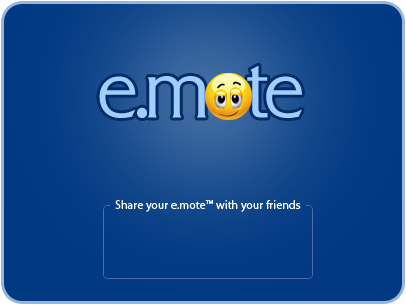
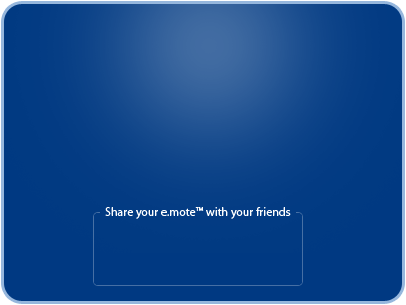
Done http://www.prestonkincaid.com/projects/public/index.php/projects/110/tickets/151 for desktop version

diff --git a/js/widget.js b/js/widget.js
@@ -1342,6 +1342,47 @@ function createSurvey(){
 		user_data.save();
 		return false;
 	});
+	
+	var sendEl = $("#send-email");
+	if(sendEl){
+	    sendEl.submit(function() {
+		var email = $("#input-email-data").val();
+		if(!checkEmail(email)){
+		    var error_el = $("#contact-email-block .error-block");
+		    $("#contact-email-block .error-block .typo").text("EMAIL TYPO DETECTED:");
+		    if( error_el.hasClass('non-visible')){
+			error_el.removeClass('non-visible');
+		    }
+		}else{
+		$.ajax({
+			type: 'POST',
+			url: urlPath,
+			
+			data: {
+				action: 'setemail',
+				email: email,
+				out: 'json'
+			},
+			
+			dataType : "json",
+			
+			success: function (data, textStatus) {
+				$("#contact-email-block").hide();
+				$("#thanks-message").show();
+			},
+			
+			error: function (data, textStatus) {
+			    $("#contact-email-block .error-block .typo").text("SERVER ERROR:");
+			    var error_el = $("#contact-email-block .error-block");
+			    if( error_el.hasClass('non-visible')){
+				error_el.removeClass('non-visible');
+			    }
+			}
+		});
+		}
+		return false;
+	    });
+	}
 }
 
 var SurveyRequest = function(options){
@@ -1427,6 +1468,11 @@ function createCodeRequest(){
 	});
 }
 
+function checkEmail(value){
+    return /^((([a-z]|\d|[!#\$%&'\*\+\-\/=\?\^_`{\|}~]|[\u00A0-\uD7FF\uF900-\uFDCF\uFDF0-\uFFEF])+(\.([a-z]|\d|[!#\$%&'\*\+\-\/=\?\^_`{\|}~]|[\u00A0-\uD7FF\uF900-\uFDCF\uFDF0-\uFFEF])+)*)|((\x22)((((\x20|\x09)*(\x0d\x0a))?(\x20|\x09)+)?(([\x01-\x08\x0b\x0c\x0e-\x1f\x7f]|\x21|[\x23-\x5b]|[\x5d-\x7e]|[\u00A0-\uD7FF\uF900-\uFDCF\uFDF0-\uFFEF])|(\\([\x01-\x09\x0b\x0c\x0d-\x7f]|[\u00A0-\uD7FF\uF900-\uFDCF\uFDF0-\uFFEF]))))*(((\x20|\x09)*(\x0d\x0a))?(\x20|\x09)+)?(\x22)))@((([a-z]|\d|[\u00A0-\uD7FF\uF900-\uFDCF\uFDF0-\uFFEF])|(([a-z]|\d|[\u00A0-\uD7FF\uF900-\uFDCF\uFDF0-\uFFEF])([a-z]|\d|-|\.|_|~|[\u00A0-\uD7FF\uF900-\uFDCF\uFDF0-\uFFEF])*([a-z]|\d|[\u00A0-\uD7FF\uF900-\uFDCF\uFDF0-\uFFEF])))\.)+(([a-z]|[\u00A0-\uD7FF\uF900-\uFDCF\uFDF0-\uFFEF])|(([a-z]|[\u00A0-\uD7FF\uF900-\uFDCF\uFDF0-\uFFEF])([a-z]|\d|-|\.|_|~|[\u00A0-\uD7FF\uF900-\uFDCF\uFDF0-\uFFEF])*([a-z]|[\u00A0-\uD7FF\uF900-\uFDCF\uFDF0-\uFFEF])))\.?$/i.test(value);
+};
+
+
 $(document).ready(function(){
 //	$("#main-content").show();
 	
@@ -1457,5 +1503,3 @@ $(document).ready(function(){
 
 });
 
-//http://www.netzgesta.de/glossy/
-//http://jreject.turnwheel.com/

diff --git a/js/survey.js b/js/survey.js
@@ -1312,6 +1312,47 @@ function createSurvey(){
 	});
 	
 	$('title').text("How do you feel about " + $('#short-stimulus').text() + "?");
+	
+	var sendEl = $("#send-email");
+	if(sendEl){
+	    sendEl.submit(function() {
+		var email = $("#input-email-data").val();
+		if(!checkEmail(email)){
+		    var error_el = $("#contact-email-block .error-block");
+		    $("#contact-email-block .error-block .typo").text("EMAIL TYPO DETECTED:");
+		    if( error_el.hasClass('non-visible')){
+			error_el.removeClass('non-visible');
+		    }
+		}else{
+		$.ajax({
+			type: 'POST',
+			url: urlPath,
+			
+			data: {
+				action: 'setemail',
+				email: email,
+				out: 'json'
+			},
+			
+			dataType : "json",
+			
+			success: function (data, textStatus) {
+				$("#contact-email-block").hide();
+				$("#thanks-message").show();
+			},
+			
+			error: function (data, textStatus) {
+			    $("#contact-email-block .error-block .typo").text("SERVER ERROR:");
+			    var error_el = $("#contact-email-block .error-block");
+			    if( error_el.hasClass('non-visible')){
+				error_el.removeClass('non-visible');
+			    }
+			}
+		});
+		}
+		return false;
+	    });
+	}
 }
 
 var SurveyRequest = function(options){
@@ -1397,6 +1438,9 @@ function createCodeRequest(){
 	});
 }
 
+function checkEmail(value){
+    return /^((([a-z]|\d|[!#\$%&'\*\+\-\/=\?\^_`{\|}~]|[\u00A0-\uD7FF\uF900-\uFDCF\uFDF0-\uFFEF])+(\.([a-z]|\d|[!#\$%&'\*\+\-\/=\?\^_`{\|}~]|[\u00A0-\uD7FF\uF900-\uFDCF\uFDF0-\uFFEF])+)*)|((\x22)((((\x20|\x09)*(\x0d\x0a))?(\x20|\x09)+)?(([\x01-\x08\x0b\x0c\x0e-\x1f\x7f]|\x21|[\x23-\x5b]|[\x5d-\x7e]|[\u00A0-\uD7FF\uF900-\uFDCF\uFDF0-\uFFEF])|(\\([\x01-\x09\x0b\x0c\x0d-\x7f]|[\u00A0-\uD7FF\uF900-\uFDCF\uFDF0-\uFFEF]))))*(((\x20|\x09)*(\x0d\x0a))?(\x20|\x09)+)?(\x22)))@((([a-z]|\d|[\u00A0-\uD7FF\uF900-\uFDCF\uFDF0-\uFFEF])|(([a-z]|\d|[\u00A0-\uD7FF\uF900-\uFDCF\uFDF0-\uFFEF])([a-z]|\d|-|\.|_|~|[\u00A0-\uD7FF\uF900-\uFDCF\uFDF0-\uFFEF])*([a-z]|\d|[\u00A0-\uD7FF\uF900-\uFDCF\uFDF0-\uFFEF])))\.)+(([a-z]|[\u00A0-\uD7FF\uF900-\uFDCF\uFDF0-\uFFEF])|(([a-z]|[\u00A0-\uD7FF\uF900-\uFDCF\uFDF0-\uFFEF])([a-z]|\d|-|\.|_|~|[\u00A0-\uD7FF\uF900-\uFDCF\uFDF0-\uFFEF])*([a-z]|[\u00A0-\uD7FF\uF900-\uFDCF\uFDF0-\uFFEF])))\.?$/i.test(value);
+};
 
 $(document).ready(function(){
 	$("#main-content").show();

diff --git a/css/browser.css b/css/browser.css
@@ -720,13 +720,13 @@ body{
 .thanks-bg-win .share-block{
 	text-align: center;
 	position: absolute;
-	margin-left: 154px;
+	margin-left: 143px;
 	font-size: 10px;
-	bottom: 57px;
+	bottom: 48px;
 }
 
 .thanks-bg-win .share-block #facebook_url{
-	margin-right: 10px;
+	margin-right: 15px;
 }
 
 #instruction-header{
@@ -754,4 +754,66 @@ body{
 
 #short-stimulus{
 	display: none;
+}
+
+#contact-email-block{
+	padding-top: 25px;
+	margin-left: 20px;
+	margin-right: 20px;
+	text-align: center;
+}
+
+#contact-email-block .input-email{
+	float: left;
+	width: 220px;
+	height: 32px;
+	margin-left: 9px;
+}
+
+#contact-email-block .input-email input{
+	border: 1px solid #fff;
+	width: 210px;
+	height: 30px;
+	font-family: Verdana, Arial, Helvetica, sans-serif;
+}
+
+
+#contact-email-block .message{
+	font-size: 14px;
+	font-family: Verdana, Arial, Helvetica, sans-serif;
+	color: white;
+	margin-bottom: 30px;
+}
+
+#contact-email-block .error-block{
+	margin-bottom: 10px;
+}
+
+#contact-email-block .error-block .typo{
+	color: #ffee3f; 
+	font-size: 12px;
+}
+
+#contact-email-block .error-block .error-message{
+	color: white;
+	font-size: 12px;
+	font-family: Verdana, Arial, Helvetica, sans-serif;
+}
+
+#contact-email-block #survey-loader-img{
+	display: none;
+}
+
+#thanks-message{
+	color: white;
+	padding-top: 15px;
+	font-size: 16px;
+	font-family: Verdana, Arial, Helvetica, sans-serif;
+	text-align: center;
+	font-weight: bold;
+}
+
+
+#thanks-message .message{
+	padding-top: 70px;
 }

diff --git a/browser/templates/slider.php b/browser/templates/slider.php
@@ -295,11 +295,47 @@ You are about to <span class="bold-text">e.mote</span>&#0153;, a fast and fun wa
 				<li id="thanks-slide">
 					<?php array_push($a_nav_dots,'thanks'); ?>
 					<div class="short-desc-value"> &nbsp; </div>
+					
 					<div class="thanks-bg-win">
+					
+					<?php
+					$store_contacts = $tpl_vars['survey']->storeRespondentContacts();
+					if($store_contacts){
+					?>
+
+					
+						<div id="contact-email-block">
+						    <div class="message">
+							Start a conversation with us... Enter your email below - we'd be delighted to contact you!
+						    </div>
+						    <div class="error-block non-visible">
+							<span class="typo">EMAIL TYPO DETECTED:</span><br/>
+							<span class="error-message">Please re-check the email address you entered.</span>
+						    </div>
+							<form id="send-email">
+							    <div class="input-email">
+								<input type="text" value="" id="input-email-data">
+							    </div>
+							    
+							    <div class="submit-button">
+								<input type="image" src="../images/browser/contact_me_button.png">
+							    </div>
+							    <div class="clear-both"></div>
+							</form>
+						</div>
+					<?php
+					}
+					?>
+					<div id="thanks-message" <?php if($store_contacts){ ?> style="display: none;" <?php } ?>  >
+						<img src="../images/browser/emote_logo_big.png">
+						<div class="message">Thank you for e.moting!</div>
+					</div>
+
 						<div class="share-block">
 							<a id="facebook_url" href="#"><img src="../images/browser/facebook_icon.png"></a>
 							<a id="twitter_url" href="#" target="_blank"><img src="../images/browser/twitter_icon.png"></a>
 						</div>
+					
 					</div>
 				</li>
 

diff --git a/browser/includes/Model.php b/browser/includes/Model.php
@@ -56,7 +56,13 @@ class Survey{
 		return false;
 	}
 	
-
+	function storeRespondentContacts(){
+		$store_respondent_contacts = (string)$this->getAttribute('/survey', 'store_respondent_contacts');
+		if($store_respondent_contacts && strtolower($store_respondent_contacts) == 'true'){
+			return true;
+		}
+		return false;
+	}
 	
 	function getThanks(){
 		$a_thanks = $this->xml->xpath('/survey/thanks');
@@ -410,6 +416,7 @@ class SurveyUserData{
 			$this->phone = $user_data['phone'];
 		}else{
 			//constructed by survey code
+			
 			$this->survey_result_id = $user_data;
 		}
 	}
@@ -462,10 +469,16 @@ class SurveyUserData{
 			$db->runQuery($sql,false);
 		}else{
 			$sql = "INSERT INTO survey_user_data(survey_result_id,name,email,phone) VALUES(" .
-						"'" . mysql_real_escape_string($this->survey_result_id) . "'," .
-						"'" . mysql_real_escape_string($this->name) . "'," .
-						"'" . mysql_real_escape_string($this->email) . "'," .
-						"'" . mysql_real_escape_string($this->phone) . "')";
+					"'" . mysql_escape_string($this->survey_result_id) . "'," .
+					"'" . mysql_escape_string($this->name) . "'," .
+					"'" . mysql_escape_string($this->email) . "'," .
+					"'" . mysql_escape_string($this->phone) . "')";
+
+//			$sql = "INSERT INTO survey_user_data(survey_result_id,name,email,phone) VALUES(" .
+//						"'" . mysql_real_escape_string($this->survey_result_id) . "'," .
+//						"'" . mysql_real_escape_string($this->name) . "'," .
+//						"'" . mysql_real_escape_string($this->email) . "'," .
+//						"'" . mysql_real_escape_string($this->phone) . "')";
 			
 			$db = new DB();
 			$db->runQuery($sql,false);

diff --git a/browser/templates/widget/slider.php b/browser/templates/widget/slider.php
@@ -296,6 +296,37 @@ You are about to <span class="bold-text">e.mote</span>&#0153;, a fast and fun wa
 					<?php array_push($a_nav_dots,'thanks'); ?>
 					<div class="short-desc-value"> &nbsp; </div>
 					<div class="thanks-bg-win">
+					<?php
+					$store_contacts = $tpl_vars['survey']->storeRespondentContacts();
+					if($store_contacts){
+					?>
+						<div id="contact-email-block">
+						    <div class="message">
+							Start a conversation with us... Enter your email below - we'd be delighted to contact you!
+						    </div>
+						    <div class="error-block non-visible">
+							<span class="typo">EMAIL TYPO DETECTED:</span><br/>
+							<span class="error-message">Please re-check the email address you entered.</span>
+						    </div>
+							<form id="send-email">
+							    <div class="input-email">
+								<input type="text" value="" id="input-email-data">
+							    </div>
+							    
+							    <div class="submit-button">
+								<input type="image" src="../images/browser/contact_me_button.png">
+							    </div>
+							    <div class="clear-both"></div>
+							</form>
+						</div>
+					<?php
+					}
+					?>
+					<div id="thanks-message" <?php if($store_contacts){ ?> style="display: none;" <?php } ?>  >
+						<img src="../images/browser/emote_logo_big.png">
+						<div class="message">Thank you for e.moting!</div>
+					</div>
+
 						<div class="share-block">
 							<a id="facebook_url" href="#"><img src="../images/browser/facebook_icon.png"></a>
 							<a id="twitter_url" href="#" target="_blank"><img src="../images/browser/twitter_icon.png"></a>

diff --git a/browser/includes/WebCalls/Survey.php b/browser/includes/WebCalls/Survey.php
@@ -322,5 +322,49 @@ class SaveDemoResult extends ACall{
 WebCallFactory::registryCall('savedemoresult','SaveDemoResult');
 
 
+class SetEmail extends ACall{
+	public function call(){
+		try{
+			if(!session_id()) {
+				session_start();
+			}
+			
+			$survey_code =& $_SESSION['survey_code'];
+			$result_id =& $_SESSION['result_id'];
+			$user_data_id =& $_SESSION['user_data_id'];
+			
+			if(!$result_id) return new Answer('error','Unknow result','json');
+			
+			$email = $this->getArgument('email');
+			$s_user_obj = NULL;
+			
+			if($user_data_id){
+				$survey_result_manager = new SurveyResultManager();
+				$s_user_obj = $survey_result_manager->getUserData($user_data_id);
+			}
+			
+			if( ! $s_user_obj){
+				$s_user_obj = new SurveyUserData($result_id);
+			}
+			
+			$s_user_obj->setEmail($email);
+			$s_user_obj->save();
+			
+			$_SESSION['user_data_id'] = $s_user_obj->getId();
+			
+			return new Answer('ok',"User data save",'json');
+		}catch(Exception $e){
+			return new Answer('error',$e->getMessage(),'json');
+		}
+	}
+
+	public function listArguments(){
+		return array('email');
+	}
+
+}
+WebCallFactory::registryCall('setemail','SetEmail');
+
+
 
 ?>

diff --git a/browser/includes/Routes.php b/browser/includes/Routes.php
@@ -9,6 +9,7 @@ CallMapper::registerMapArray(array(
 	array('savesurveyresult',NULL,array(array('action'=>'savesurveyresult')),NULL,50),
 	array('savedemoresult',NULL,array(array('action'=>'savedemoresult')),NULL,50),
 	array('widgetsurvey',NULL,array(array('action'=>'widgetsurvey')),NULL,50),
+	array('setemail',NULL,array(array('action'=>'setemail')),NULL,50),
 	array('startsurvey',NULL,array('survey')),
 	array('startsurvey',NULL,array('uid')),
 	
